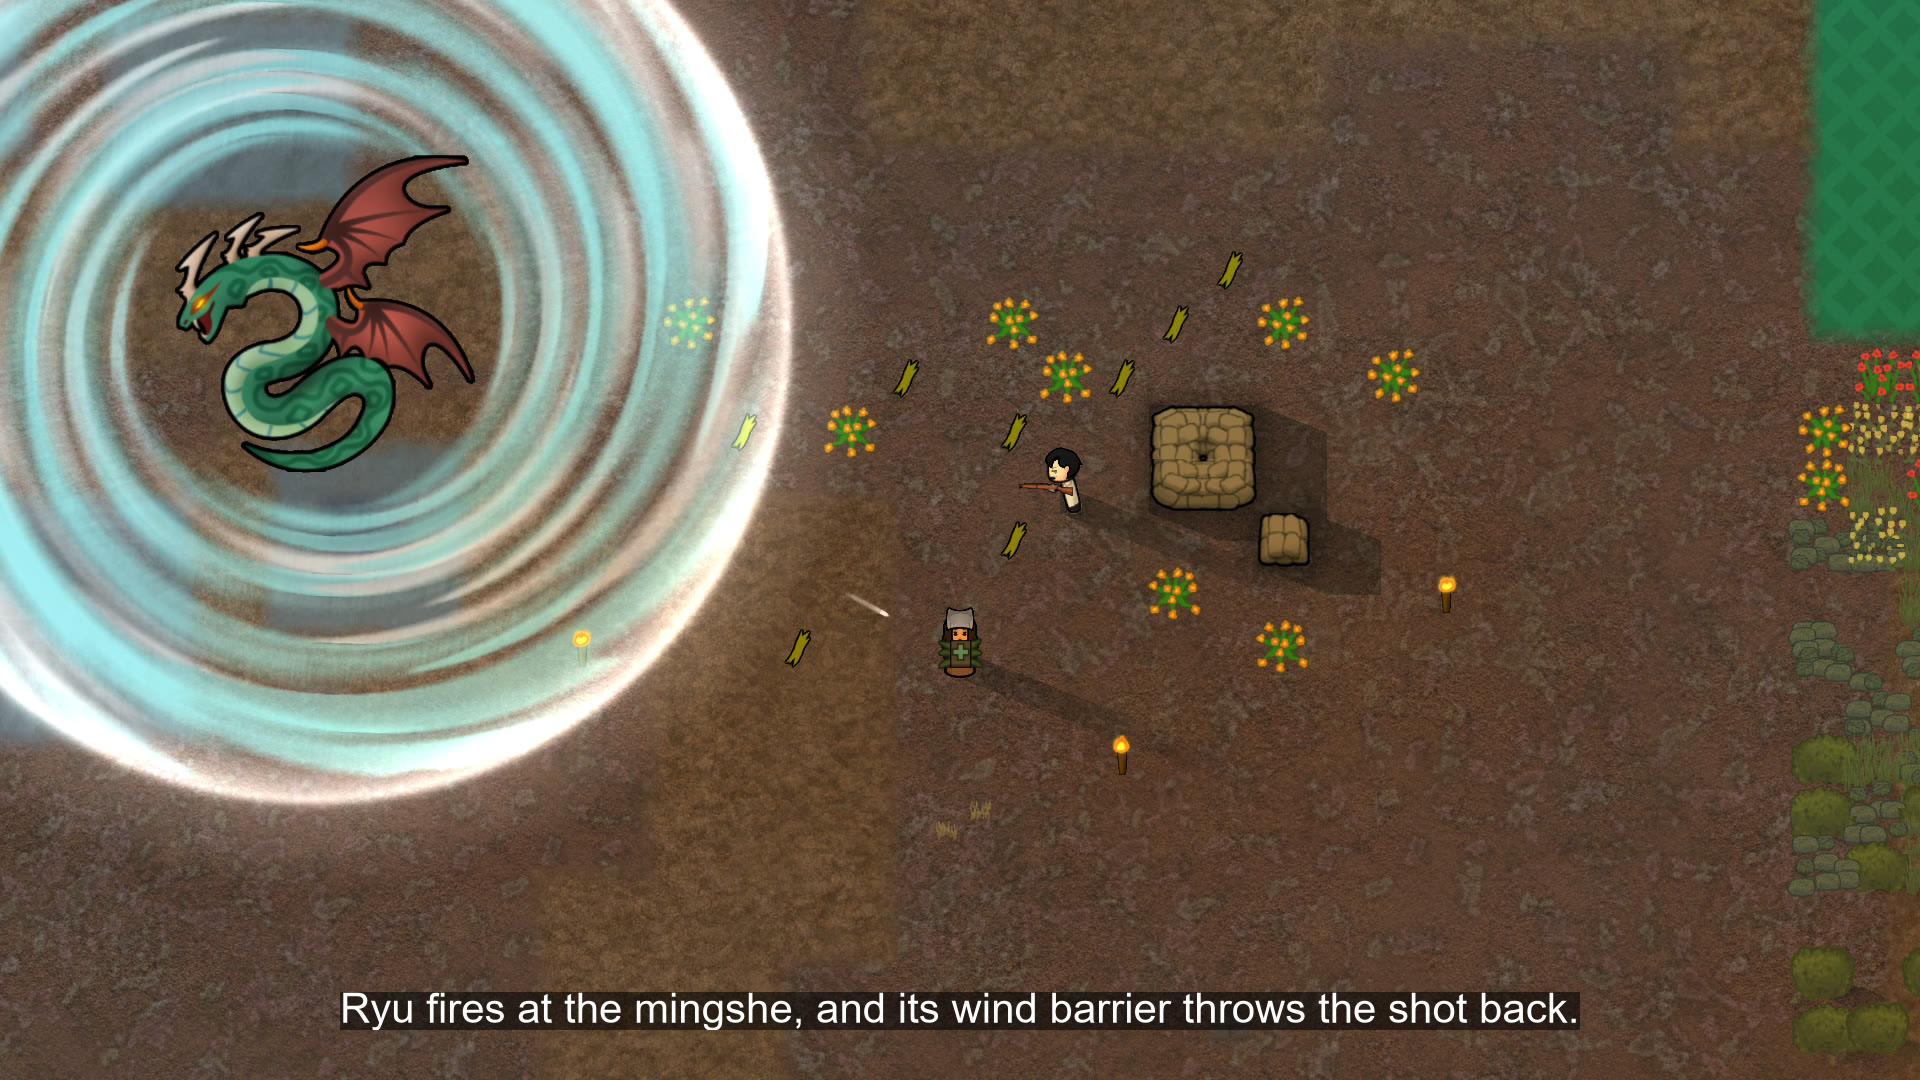
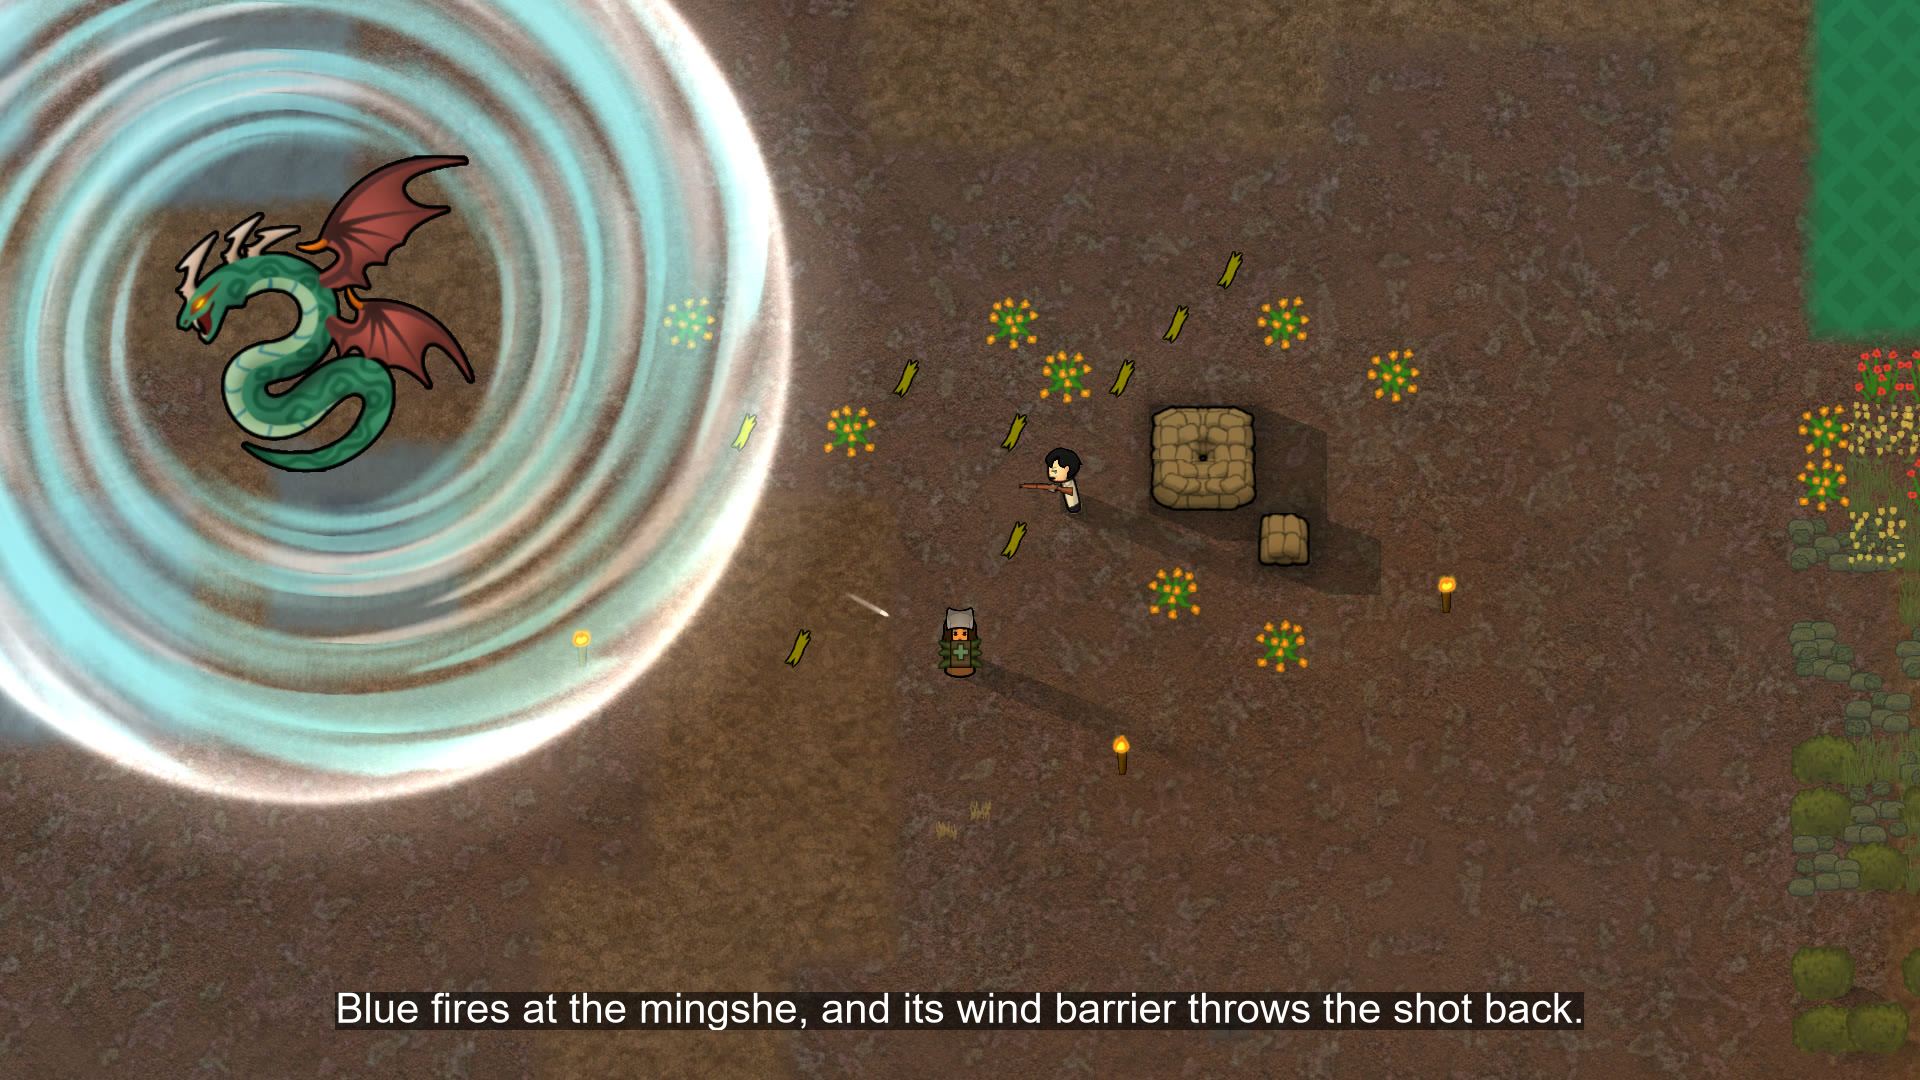
Gallery subtitles 5 and 6: Blue, not Ryu

Changed region(s): [[0.1562, 0.9167, 0.8438, 0.9472]]

diff --git a/PUBLICATION.md b/PUBLICATION.md
@@ -34,7 +34,7 @@ None ticked. The mod holds no nudity, sexual content or gore beyond RimWorld's o
 
 ## Gallery subtitles
 
-One line of English at the bottom of each gallery scene without an interface window (owner rule of 2026-10-15, `GALLERY.md`, "Sous-titres"): `0-` (the Preview) has none, and this mod has no interface capture. The clean originals go to `Art/Gallery-clean/`; `Art/Gallery/` holds the subtitled images, set with `scripts/Add-Subtitle.ps1`. Rewritten 2026-11-15 for the eight scenes of the restaged story (`24-gallery.feature`): one day at Nelim's Sanctuary, Nelim the protagonist in every image, Ryu the only guest (images 5 and 6). Burned on the eight images of `Art/Gallery/` (final names, below).
+One line of English at the bottom of each gallery scene without an interface window (owner rule of 2026-10-15, `GALLERY.md`, "Sous-titres"): `0-` (the Preview) has none, and this mod has no interface capture. The clean originals go to `Art/Gallery-clean/`; `Art/Gallery/` holds the subtitled images, set with `scripts/Add-Subtitle.ps1`. Rewritten 2026-11-15 for the eight scenes of the restaged story (`24-gallery.feature`): one day at Nelim's Sanctuary, Nelim the protagonist in every image, Blue the only guest (images 5 and 6). Burned on the eight images of `Art/Gallery/` (final names, below).
 
 | Index | File | Line |
 | --- | --- | --- |
@@ -42,8 +42,8 @@ One line of English at the bottom of each gallery scene without an interface win
 | 2 | `2-four-beasts.jpg` | Four beasts out of the Classic of Mountains and Seas have come to the Sanctuary for the New Year. |
 | 3 | `3-qiongqi.jpg` | The qiongqi has picked its prey, and Nelim braces behind the sandbags. |
 | 4 | `4-nian-fire.jpg` | The nian beast breathes fire at a muffalo. Nelim holds the one thing it fears: a firecracker. |
-| 5 | `5-wind-barrier.jpg` | Ryu fires at the mingshe, and its wind barrier throws the shot back. |
-| 6 | `6-sexie-aura.jpg` | The sexie's red aura drives Ryu berserk, and Nelim keeps to the edge of the ring. |
+| 5 | `5-wind-barrier.jpg` | Blue fires at the mingshe, and its wind barrier throws the shot back. |
+| 6 | `6-sexie-aura.jpg` | The sexie's red aura drives Blue berserk, and Nelim keeps to the edge of the ring. |
 | 7 | `7-extractor.jpg` | Three archite capsules wait at the extractor, and a hen minds the bench. |
 | 8 | `8-tame-clones.jpg` | After the day, Nelim feeds the five tamed clones that came out of the extractor. |
 
